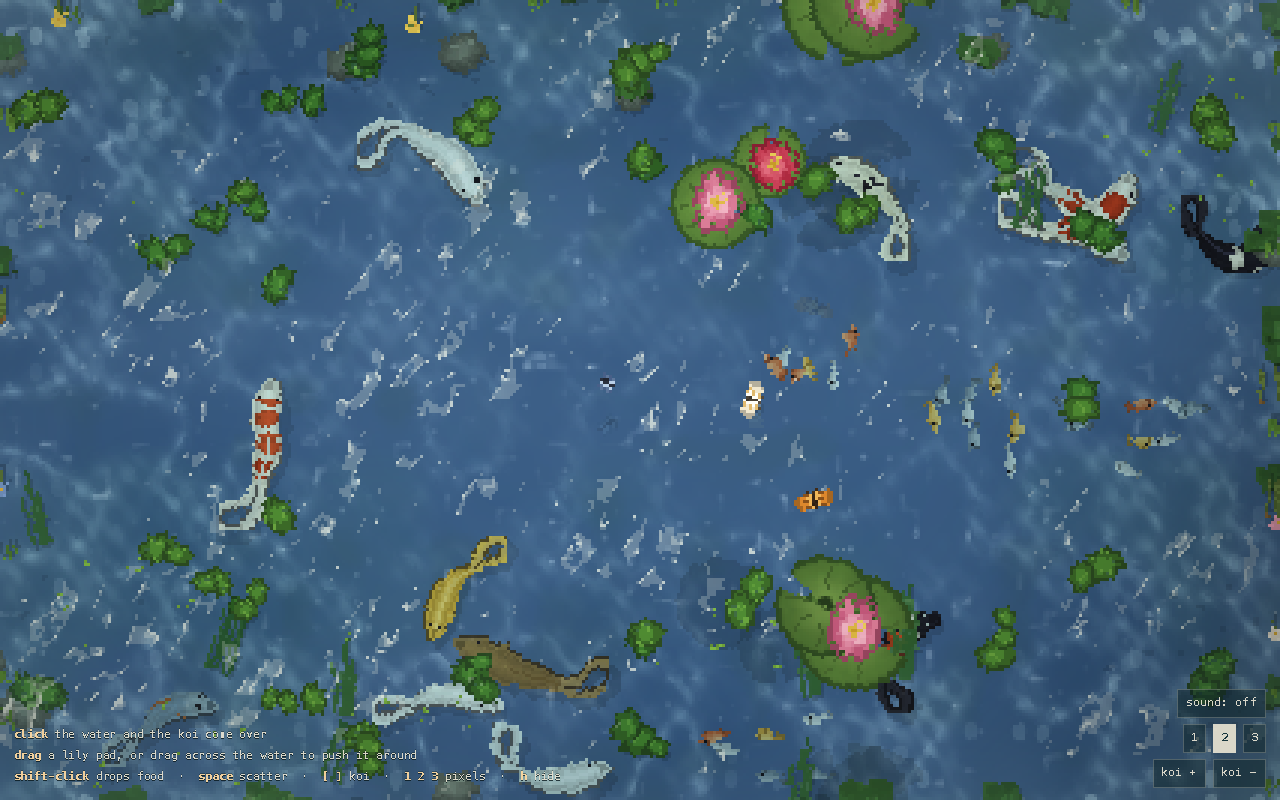
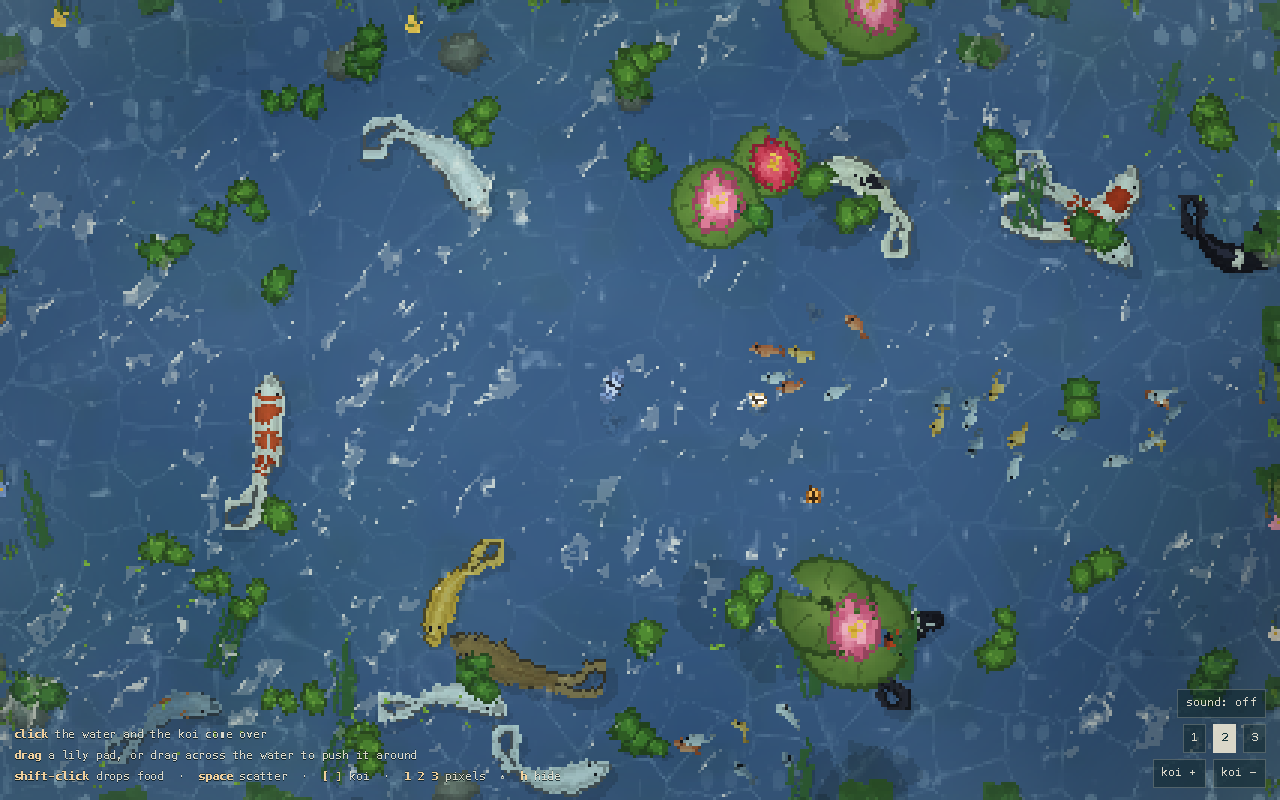
Caustics as a nagomi-style mosaic: thin seams between irregular cells

diff --git a/src/gfx.js b/src/gfx.js
@@ -89,6 +89,13 @@ vec2 ringDisp(vec2 p) {
 
 // the ambient swell: three slow crossing waves plus one finer ripple, and
 // their analytic slope. swellH must match swellAt() in water.js.
+// cell site hash for the caustic mosaic
+vec2 causticHash(vec2 p) {
+  vec3 q = fract(vec3(p.xyx) * vec3(0.1031, 0.1030, 0.0973));
+  q += dot(q, q.yzx + 33.33);
+  return fract((q.xx + q.yz) * q.zy);
+}
+
 float swellWarp(vec2 p) {
   return (vnoise(p * 0.0125) - 0.5) * 6.2 + (vnoise(p * 0.043 + 11.0) - 0.5) * 1.8;
 }
@@ -718,23 +725,38 @@ void main() {
   // curvature, so the light net drifts with the very waves that make it
   // instead of crawling on its own clock, and its cells are round and
   // connected the way real caustics are.
-  // The net itself is the ridge where two slow drifting fields agree. Ridges
-  // form connected curves, which is what makes a caustic read as a net of
-  // light rather than a scatter of dots. The swell curvature then brightens
-  // the net where the surface is actually focusing, so it still pulses with
-  // the waves instead of scrolling on its own.
-  // cell size is kept in pixels, not in world units, so the light net looks
-  // the same whether the pond renders at 320 or 600 pixels across
+  // Caustics, the nagomi shape: a mosaic of irregular cells with the light
+  // gathered along the seams between them. Thin pale lines, low contrast, so
+  // it reads as light lying in the water instead of a pattern on the floor.
+  // The cells drift slowly, wobble through a noise warp, and keep a constant
+  // size in pixels rather than in world units.
   float cs = uRes.x / 320.0;
-  vec2 cq1 = (p + g * 2.0) * 0.034 * cs + vec2(uTime * 0.085, -uTime * 0.062);
-  vec2 cq2 = (p + g * 2.0) * 0.029 * cs - vec2(uTime * 0.07, uTime * 0.098) + 23.7;
-  float cn1 = vnoise(cq1) * 0.7 + vnoise(cq1 * 2.1 + 5.3) * 0.3;
-  float cn2 = vnoise(cq2) * 0.7 + vnoise(cq2 * 1.9 + 9.1) * 0.3;
-  float caust = pow(clamp(1.0 - abs(cn1 - cn2) * 2.5, 0.0, 1.0), 2.8);
+  vec2 cq = (p + g * 2.0) * 0.036 * cs;
+  cq += vec2(uTime * 0.035, uTime * 0.022);
+  // a gentle warp only: too much and the seams break into dashes
+  cq += (vec2(vnoise(cq * 0.4 + 3.0), vnoise(cq * 0.4 + 11.0)) - 0.5) * 0.34;
+  vec2 cn = floor(cq);
+  vec2 cf = fract(cq);
+  float d1 = 9.0;
+  float d2 = 9.0;
+  float cellVary = 1.0;
+  for (int j = -1; j <= 1; j++) {
+    for (int i = -1; i <= 1; i++) {
+      vec2 o = causticHash(cn + vec2(float(i), float(j)));
+      vec2 r = vec2(float(i), float(j)) + o - cf;
+      float dd = dot(r, r);
+      if (dd < d1) { d2 = d1; d1 = dd; cellVary = o.x; } else if (dd < d2) { d2 = dd; }
+    }
+  }
+  float edge = sqrt(d2) - sqrt(d1);   // zero along the seam between two cells
+  float caust = pow(1.0 - smoothstep(0.0, 0.075, edge), 1.35);
+  // not every cell's rim lights up the same, or the net looks printed
+  caust *= 0.55 + 0.85 * cellVary;
+  // the swell still decides how bright the seams burn
   float lap = swellLap(p + g * 2.0) * 2.2;
-  caust *= 0.45 + 0.95 * clamp(lap * 1.2 + 0.45, 0.0, 1.6);
+  caust *= 0.55 + 0.75 * clamp(lap * 1.1 + 0.45, 0.0, 1.5);
   caust *= 0.15 + 0.85 * pow(clamp(d * 1.6, 0.0, 1.0), 1.5);
-  floorCol += uSun * caust * uCaustics * 2.3;
+  floorCol += uSun * caust * uCaustics * 1.4;
 
   // slow diagonal shafts of light: one broad, soft band rather than streaks
   float shaft = sin(dot(p, normalize(vec2(-0.55, -0.75))) * 0.0185 + vnoise(p * 0.021) * 3.4 + uTime * 0.07);
